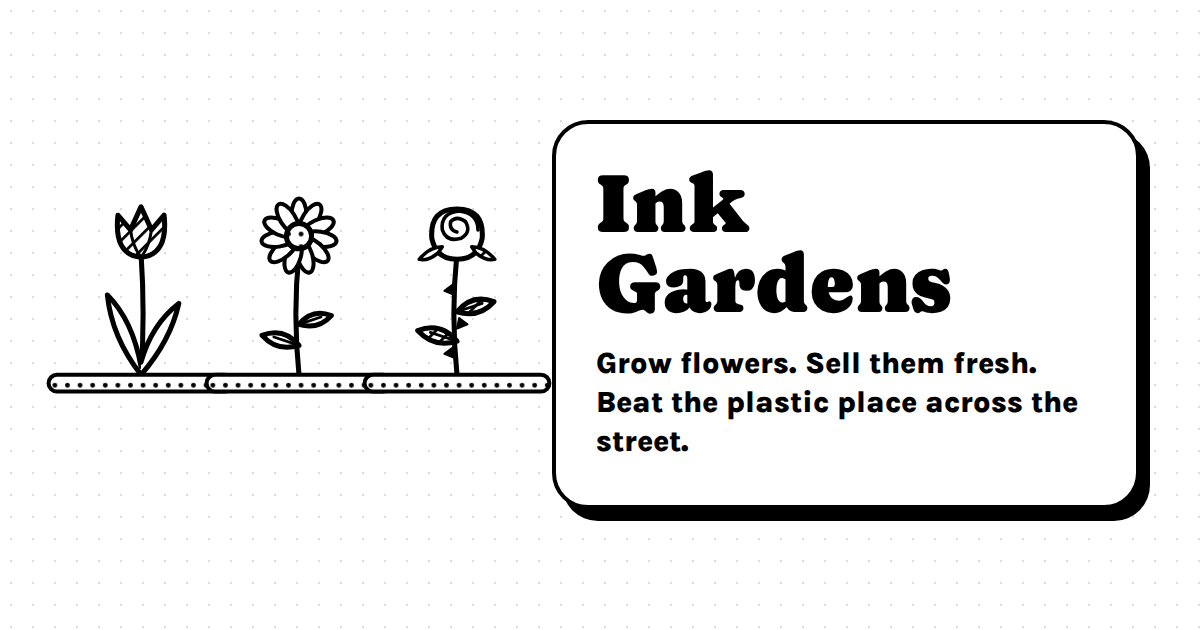
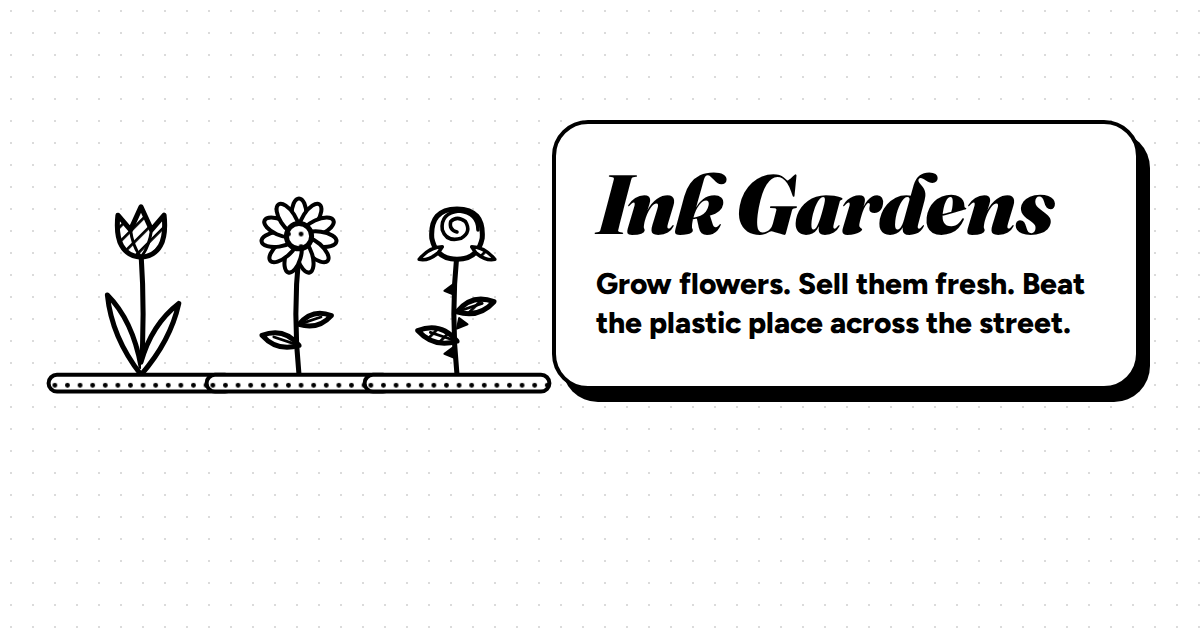
Match the other ink games' fonts: Fraunces and Figtree
Titles are Fraunces italic 900 and numbers upright Fraunces 900 with
even-width digits, as in Ink Nine, Ink Sky and the rest. Redraws the
share image and bumps the service worker cache.

Claude-Session: https://claude.ai/code/session_01YXXLCc4NSMEh33GQx8FJiz

Changed region(s): [[0.4625, 0.2714, 0.9558, 0.8444], [0.4933, 0.6937, 0.5858, 0.7238]]

diff --git a/play/styles.css b/play/styles.css
@@ -1,6 +1,6 @@
 :root{
   --ink:#000; --paper:#fff; --mute:#7a7a7a; --faint:#d6d6d6;
-  --display:'Caprasimo','Georgia',serif; --ui:'Karla',system-ui,-apple-system,'Segoe UI',sans-serif;
+  --display:"Fraunces",Georgia,serif;--ui:"Figtree",system-ui,-apple-system,"Segoe UI",sans-serif;
   --spring:cubic-bezier(.34,1.56,.64,1);
   box-sizing:border-box;
   padding-top:env(safe-area-inset-top,0px);
@@ -29,7 +29,7 @@ button{font-family:inherit;color:inherit}
 #mfill{display:block;height:100%;width:60%;background:var(--paper);border-right:2px solid var(--ink);transition:width .6s cubic-bezier(.3,1.5,.5,1)}
 .till{text-align:right;line-height:1;min-width:48px}
 .till small{display:block;font-size:11px;font-weight:800;color:var(--mute)}
-.till b{font-family:var(--display);font-weight:400;font-size:21px}
+.till b{font-family:var(--display);font-weight:900;font-variant-numeric:tabular-nums;font-size:21px}
 
 /* customers on the rail */
 .rail{display:grid;grid-template-columns:repeat(var(--rails,3),1fr);gap:9px;height:clamp(112px,17vh,142px);margin-top:12px;flex:none}
@@ -50,12 +50,12 @@ button{font-family:inherit;color:inherit}
 .want{position:relative;display:inline-flex;align-items:flex-end;opacity:.38;transition:opacity .2s}
 .want.have{opacity:1}
 .want .ico{width:clamp(26px,8vw,34px);height:clamp(26px,8vw,34px)}
-.want b{font-family:var(--display);font-weight:400;font-size:14px;line-height:1;margin-left:-2px}
+.want b{font-family:var(--display);font-weight:900;font-variant-numeric:tabular-nums;font-size:14px;line-height:1;margin-left:-2px}
 .pbar{height:8px;border:1.5px solid var(--ink);border-radius:5px;overflow:hidden;margin-top:4px;flex:none}
 .pbar i{display:block;height:100%;width:100%;background:var(--ink)}
 .slot-empty{border:2px dashed var(--faint);border-radius:8px}
 .stamp{position:absolute;inset:0;display:grid;place-items:center;background:color-mix(in srgb,var(--paper) 72%,transparent);border-radius:6px}
-.stamp span{font-family:var(--display);font-size:16px;line-height:1.05;text-align:center;border:3px solid var(--ink);border-radius:8px;padding:6px 8px;transform:rotate(-11deg);background:var(--paper)}
+.stamp span{font-family:var(--display);font-style:italic;font-weight:900;letter-spacing:-.01em;font-size:16px;line-height:1.05;text-align:center;border:3px solid var(--ink);border-radius:8px;padding:6px 8px;transform:rotate(-11deg);background:var(--paper)}
 .stamp em{font-style:normal;font-size:15px;letter-spacing:1px}
 .gone .stamp span{transform:rotate(9deg);font-size:13px}
 
@@ -66,7 +66,7 @@ button{font-family:inherit;color:inherit}
 .bnone{font-size:13px;color:var(--mute)}
 .chip{display:inline-flex;align-items:center;gap:1px;background:var(--paper);border:2px solid var(--ink);border-radius:999px;padding:1px 8px 1px 3px;flex:none}
 .chip .ico{width:26px;height:26px}
-.chip b{font-family:var(--display);font-weight:400;font-size:15px}
+.chip b{font-family:var(--display);font-weight:900;font-variant-numeric:tabular-nums;font-size:15px}
 
 /* the garden */
 .garden{flex:1;min-height:0;display:grid;grid-template-columns:repeat(3,1fr);grid-template-rows:repeat(var(--rows,4),1fr);gap:7px;margin-top:10px}
@@ -106,7 +106,7 @@ button{font-family:inherit;color:inherit}
 .fly .ico{width:34px;height:34px;display:block;background:var(--paper);border-radius:50%}
 .drop{position:fixed;width:6px;height:9px;margin:-4px 0 0 -3px;border-radius:50% 50% 50% 50%/60% 60% 40% 40%;background:var(--ink)}
 .puff{position:fixed;width:8px;height:8px;border-radius:50%;border:2px solid var(--ink);background:var(--paper)}
-.float{position:fixed;z-index:80;font-family:var(--display);font-size:20px;pointer-events:none;white-space:nowrap;transform:translate(-50%,-50%);text-shadow:0 0 3px var(--paper),0 0 3px var(--paper)}
+.float{position:fixed;z-index:80;font-family:var(--display);font-weight:900;font-variant-numeric:tabular-nums;font-size:20px;pointer-events:none;white-space:nowrap;transform:translate(-50%,-50%);text-shadow:0 0 3px var(--paper),0 0 3px var(--paper)}
 .float.small{font-size:15px}
 #toast{position:fixed;left:50%;bottom:calc(env(safe-area-inset-bottom,0px) + 84px);transform:translate(-50%,20px);opacity:0;background:var(--paper);border:2px solid var(--ink);border-radius:999px;padding:8px 16px;font-size:13px;font-weight:800;z-index:90;transition:.2s;pointer-events:none;max-width:calc(100vw - 24px);text-align:center}
 #toast.show{opacity:1;transform:translate(-50%,0)}
@@ -116,7 +116,7 @@ button{font-family:inherit;color:inherit}
 .screen{position:fixed;inset:0;z-index:100;background:var(--paper);display:none;overflow:auto;padding:calc(env(safe-area-inset-top,0px) + 28px) 24px calc(env(safe-area-inset-bottom,0px) + 28px);touch-action:pan-y}
 .screen.show{display:flex}
 .sc{margin:auto;width:100%;max-width:360px;display:flex;flex-direction:column;align-items:center;text-align:center}
-.screen h1{font-family:var(--display);font-weight:400;font-size:clamp(42px,13vw,60px);line-height:.95;margin:.12em 0 .2em}
+.screen h1{font-family:var(--display);font-style:italic;font-weight:900;letter-spacing:-.01em;font-size:clamp(42px,13vw,60px);line-height:.95;margin:.12em 0 .2em}
 .screen h2{font-size:16px;font-weight:800;margin:0 0 8px}
 .tag{font-size:16px;line-height:1.4;margin:0 0 24px;max-width:28ch}
 .kick{font-size:14px;font-weight:800;color:var(--mute);margin:0}
@@ -135,18 +135,18 @@ button{font-family:inherit;color:inherit}
 .fresh>p{font-size:13px;font-weight:800;color:var(--mute);margin:0}
 .newp{display:grid;grid-template-columns:48px 1fr;gap:12px;align-items:center;text-align:left;border:2px solid var(--ink);border-radius:14px;padding:10px 12px;box-shadow:0 3px 0 var(--ink)}
 .newp .pk{width:48px;height:auto}
-.newp b{display:block;font-family:var(--display);font-weight:400;font-size:20px;line-height:1.1}
+.newp b{display:block;font-family:var(--display);font-style:italic;font-weight:900;letter-spacing:-.01em;font-size:20px;line-height:1.1}
 .newp span{display:block;font-size:14px;font-weight:400;line-height:1.35}
 .newp small{display:block;font-size:12px;font-weight:800;color:var(--mute);margin-top:3px}
 .stats{display:flex;gap:10px;justify-content:center;margin:10px 0 18px;width:100%}
 .stats div{flex:1;border:2px solid var(--ink);border-radius:12px;padding:10px 4px}
-.stats b{display:block;font-family:var(--display);font-weight:400;font-size:26px;line-height:1}
+.stats b{display:block;font-family:var(--display);font-weight:900;font-variant-numeric:tabular-nums;font-size:26px;line-height:1}
 .stats span{font-size:12px;font-weight:600;line-height:1.2;display:block;margin-top:4px}
 .bigmeter{width:100%;margin-bottom:22px}
 
 /* the seed shop between days */
 .till-big{font-size:16px;margin:0 0 16px}
-.till-big b{font-family:var(--display);font-weight:400;font-size:26px}
+.till-big b{font-family:var(--display);font-weight:900;font-variant-numeric:tabular-nums;font-size:26px}
 .buys{display:grid;gap:10px;width:100%;margin-bottom:18px}
 .buy{display:grid;grid-template-columns:1fr auto;gap:12px;align-items:center;text-align:left;border:2px solid var(--ink);border-radius:14px;padding:10px 12px}
 .buy b{display:block;font-size:16px;font-weight:800}

diff --git a/index.html b/index.html
@@ -31,9 +31,9 @@
 <meta name="twitter:image" content="https://ink-gardens.vercel.app/og-image.png">
 <link rel="preconnect" href="https://fonts.googleapis.com">
 <link rel="preconnect" href="https://fonts.gstatic.com" crossorigin>
-<link href="https://fonts.googleapis.com/css2?family=Caprasimo&family=Karla:wght@400;600;800&display=swap" rel="stylesheet">
+<link href="https://fonts.googleapis.com/css2?family=Fraunces:ital,opsz,wght@0,9..144,800;0,9..144,900;1,9..144,900&family=Figtree:wght@400;500;600;700;800&display=swap" rel="stylesheet">
 <style>
-:root{--ink:#000;--paper:#fff;--mute:#6b6b6b;--display:'Caprasimo','Georgia',serif;--ui:'Karla',system-ui,-apple-system,'Segoe UI',sans-serif;
+:root{--ink:#000;--paper:#fff;--mute:#6b6b6b;--display:"Fraunces",Georgia,serif;--ui:"Figtree",system-ui,-apple-system,"Segoe UI",sans-serif;
   box-sizing:border-box;padding-top:env(safe-area-inset-top,0px);padding-bottom:env(safe-area-inset-bottom,0px)}
 @media (prefers-color-scheme:dark){:root:not([data-theme="light"]){--ink:#f4f4f4;--paper:#161616;--mute:#9a9a9a}}
 :root[data-theme="dark"]{--ink:#f4f4f4;--paper:#161616;--mute:#9a9a9a}
@@ -51,9 +51,9 @@ main{position:relative;z-index:1;min-height:100vh;min-height:100dvh;display:grid
 .card{width:min(420px,100%);background:var(--paper);border:2.5px solid var(--ink);border-radius:26px;box-shadow:7px 8px 0 var(--ink);padding:26px 24px 22px;text-align:center;
   animation:in .8s cubic-bezier(.3,.7,.3,1) both .2s}
 @keyframes in{0%{opacity:0;transform:translateY(60px) scale(.8,1.2)}55%{opacity:1;transform:translateY(-8px) scale(1.04,.96)}78%{transform:translateY(2px) scale(.99,1.01)}100%{transform:none}}
-h1{font-family:var(--display);font-weight:400;font-size:clamp(46px,13vw,66px);line-height:.95;margin:0}
+h1{font-family:var(--display);font-style:italic;font-weight:900;letter-spacing:-.01em;font-size:clamp(46px,13vw,66px);line-height:.95;margin:0}
 .tag{font-weight:800;font-size:17px;margin:12px 0 22px;line-height:1.35}
-.play{display:block;width:100%;background:var(--ink);color:var(--paper);text-decoration:none;border-radius:18px;padding:14px 20px;font-family:var(--display);font-weight:400;font-size:30px;
+.play{display:block;width:100%;background:var(--ink);color:var(--paper);text-decoration:none;border-radius:18px;padding:14px 20px;font-family:var(--display);font-style:italic;font-weight:900;font-size:30px;
   border:2.5px solid var(--ink);transition:transform .22s cubic-bezier(.34,1.56,.64,1)}
 .play:hover{transform:translateY(-2px)}
 .play:active{transform:scale(1.04,.9)}

diff --git a/sw.js b/sw.js
@@ -1,6 +1,6 @@
 // Ink Gardens service worker: always tries the network first so updates show up right away,
 // and falls back to the last copy it saw so the game still opens with a weak connection.
-const CACHE = 'inkgardens-v1';
+const CACHE = 'inkgardens-v2';
 const CORE = ['/', '/play/', '/play/styles.css', '/play/js/config.js', '/play/js/data.js', '/play/js/core.js', '/play/js/online.js', '/play/js/audio.js',
   '/play/js/draw.js', '/play/js/garden.js', '/play/js/shop.js', '/play/js/screens.js',
   '/manifest.webmanifest', '/icons/icon-192.png', '/icons/icon-512.png', '/icons/apple-touch-icon.png'];

diff --git a/play/index.html b/play/index.html
@@ -31,7 +31,7 @@
 <meta name="twitter:image" content="https://ink-gardens.vercel.app/og-image.png">
 <link rel="preconnect" href="https://fonts.googleapis.com">
 <link rel="preconnect" href="https://fonts.gstatic.com" crossorigin>
-<link href="https://fonts.googleapis.com/css2?family=Caprasimo&family=Karla:wght@400;600;800&display=swap" rel="stylesheet">
+<link href="https://fonts.googleapis.com/css2?family=Fraunces:ital,opsz,wght@0,9..144,800;0,9..144,900;1,9..144,900&family=Figtree:wght@400;500;600;700;800&display=swap" rel="stylesheet">
 <link rel="stylesheet" href="styles.css">
 </head>
 <body>

diff --git a/play/js/config.js b/play/js/config.js
@@ -3,7 +3,7 @@
    ===================================================================== */
 "use strict";
 // Shown on the title screen and attached to feedback. Bump it with every change you ship.
-const VERSION = '0.1.0';
+const VERSION = '0.1.1';
 // Online services (feedback). This is the same Supabase project as Ink Nine and Ink Burger; Ink Gardens uses its own
 // table, garden_feedback. The key is the public "publishable" one and is safe to ship. Leave both empty to play offline.
 const SUPABASE_URL = 'https://nzysakunytcbkzdfvhxk.supabase.co';

diff --git a/CLAUDE.md b/CLAUDE.md
@@ -68,7 +68,7 @@ Progress is kept in the browser's localStorage. An update must never wipe or bre
 
 ## Look and feel (keep it consistent)
 - Paper and ink only: white and black, with grey only for secondary text. Shading is hatching, dots and stripes, never color. Dark mode swaps paper and ink.
-- Fonts: Caprasimo (display) and Karla (UI, 400, 600 and 800). These are Ink Gardens' own; Ink Burger uses Bagel Fat One and Bricolage Grotesque.
+- Fonts: Fraunces for display and Figtree for the UI (400 to 800), the same pair as Ink Nine and the other ink games. Titles and headings are Fraunces italic 900; numbers (till, prices, counts, stats) are upright Fraunces 900 with even-width digits.
 - Plants draw in a 100 × 100 box with the soil at y 88 (`GROUND` in draw.js). New plants need a `case` in `plantBody` for bud and bloom, and an `ICON_BOX` crop.
 - Motion follows Disney's principles: squash and stretch, anticipation, follow-through, slow in and out. Blooms sway, thirsty plants droop.
 - Mobile first, portrait, one thumb. Respect safe areas and `prefers-reduced-motion`.

diff --git a/CHANGELOG.md b/CHANGELOG.md
@@ -1,5 +1,8 @@
 # Changelog
 
+## 0.1.1
+- The lettering now matches the other ink games: Fraunces for titles and numbers, and Figtree for everything else.
+
 ## 0.1.0
 - First playable version. Nana left you her flower shop and the garden behind it, and Everbloom, a plastic flower superstore, just opened across the street. You have one week, Monday to Sunday, to win the street.
 - The garden is a grid of beds. One tap does the obvious thing: plant the seed you picked in the tray, water a thirsty plant, pick a flower in bloom, pull a weed or clear a dead plant.
